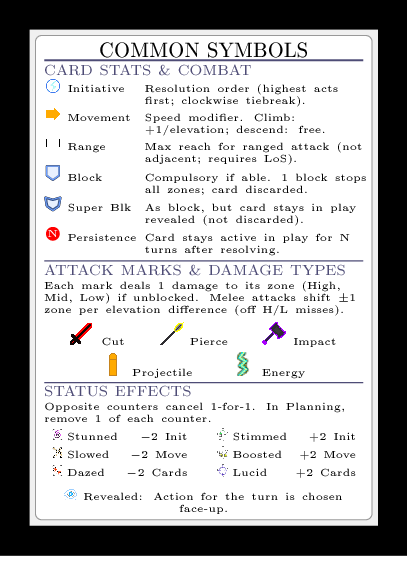
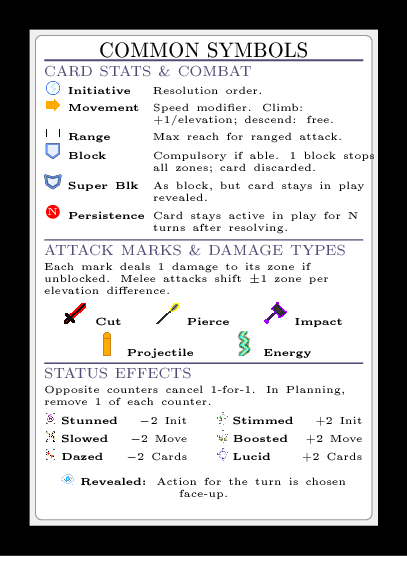
refactor: clean up helpcard formatting (bold keywords, remove parentheses, split attack/frame keywords)

diff --git a/helpcard.py b/helpcard.py
@@ -16,7 +16,8 @@ from pathlib import Path
 
 def build_symbols_card() -> str:
     """Generate LaTeX TikZ code for the Common Symbols reference card."""
-    return r"""\begin{tikzpicture}
+    return r"""\providecommand{\kw}[1]{{\normalfont\bfseries #1}}
+\begin{tikzpicture}
   \node (cardbleed) [rectangle, minimum width = 6.9cm, minimum height = 9.4cm, fill=black] at (3.45,4.7){};
   \useasboundingbox (0,0) rectangle (6.9, 9.4);
   \clip (0,0) rectangle (6.9, 9.4);
@@ -28,51 +29,51 @@ def build_symbols_card() -> str:
   % Content box
   \node[anchor=north, inner sep=0pt, text width=5.4cm] at (3.45, 8.68) {%
     {\centering\textbf{\cardtitlefont\normalsize COMMON SYMBOLS}\par\vspace{1pt}}
-    {\color{citysteel}\hrule height 0.8pt}\vspace{2pt}
+    {\color{citysteel}\hrule height 0.8pt}\vspace{2.5pt}
 
     % --- STATS ---
-    {\color{citysteel}\textbf{\cardtitlefont\scriptsize CARD STATS \& COMBAT}}\par\vspace{1pt}
+    {\color{citysteel}\textbf{\cardtitlefont\scriptsize CARD STATS \& COMBAT}}\par\vspace{1.5pt}
     {\fontsize{4.8pt}{5.8pt}\selectfont\cardtextfont
     \begin{tabular}{@{}c@{\hspace{3pt}}l@{\hspace{4pt}}p{3.85cm}@{}}
-      \includegraphics[height=0.22cm]{../icons/initImg.png} & \textbf{Initiative} & Resolution order (highest acts first; clockwise tiebreak). \\
-      \includegraphics[height=0.22cm]{../icons/mvimg_old.png} & \textbf{Movement} & Speed modifier. Climb: +1/elevation; descend: free. \\
-      \includegraphics[height=0.22cm]{../icons/rangeImg.png} & \textbf{Range} & Max reach for ranged attack (not adjacent; requires LoS). \\
-      \resizebox{0.24cm}{!}{\begin{tikzpicture}\blockshield{0}{0}{cityblue}\end{tikzpicture}} & \textbf{Block} & Compulsory if able. 1 block stops all zones; card discarded. \\
-      \resizebox{0.29cm}{!}{\begin{tikzpicture}\superblockshield{0}{0}{cityblue}\end{tikzpicture}} & \textbf{Super Blk} & As block, but card stays in play revealed (not discarded). \\
-      \tikz{\node[circle, fill=red, inner sep=0.2pt]{\tiny\textbf{\color{white}N}};\strut} & \textbf{Persistence} & Card stays active in play for N turns after resolving. \\
+      \includegraphics[height=0.22cm]{../icons/initImg.png} & \kw{Initiative} & Resolution order. \\
+      \includegraphics[height=0.22cm]{../icons/mvimg_old.png} & \kw{Movement} & Speed modifier. Climb: +1/elevation; descend: free. \\
+      \includegraphics[height=0.22cm]{../icons/rangeImg.png} & \kw{Range} & Max reach for ranged attack. \\
+      \resizebox{0.24cm}{!}{\begin{tikzpicture}\blockshield{0}{0}{cityblue}\end{tikzpicture}} & \kw{Block} & Compulsory if able. 1 block stops all zones; card discarded. \\
+      \resizebox{0.29cm}{!}{\begin{tikzpicture}\superblockshield{0}{0}{cityblue}\end{tikzpicture}} & \kw{Super Blk} & As block, but card stays in play revealed. \\
+      \tikz{\node[circle, fill=red, inner sep=0.2pt]{\tiny\textbf{\color{white}N}};\strut} & \kw{Persistence} & Card stays active in play for N turns after resolving. \\
     \end{tabular}\par
-    }\vspace{2pt}
-    {\color{citysteel}\hrule height 0.5pt}\vspace{1.5pt}
+    }\vspace{2.5pt}
+    {\color{citysteel}\hrule height 0.5pt}\vspace{2pt}
 
     % --- DAMAGE TYPES ---
-    {\color{citysteel}\textbf{\cardtitlefont\scriptsize ATTACK MARKS \& DAMAGE TYPES}}\par\vspace{1pt}
+    {\color{citysteel}\textbf{\cardtitlefont\scriptsize ATTACK MARKS \& DAMAGE TYPES}}\par\vspace{1.5pt}
     {\fontsize{4.8pt}{5.8pt}\selectfont\cardtextfont
-    Each mark deals 1 damage to its zone (High, Mid, Low) if unblocked.
-    Melee attacks shift $\pm$1 zone per elevation difference (off H/L misses).\par\vspace{2pt}
+    Each mark deals 1 damage to its zone if unblocked.
+    Melee attacks shift $\pm$1 zone per elevation difference.\par\vspace{2.5pt}
     {\centering
-      \smallcut\ \textbf{Cut} \hspace{10pt}
-      \smallpierce\ \textbf{Pierce} \hspace{10pt}
-      \smallimpact\ \textbf{Impact}\par\vspace{1.5pt}
-      \smallprojectile\ \textbf{Projectile} \hspace{12pt}
-      \smallenergy\ \textbf{Energy}\par
+      \smallcut\ \kw{Cut} \hspace{10pt}
+      \smallpierce\ \kw{Pierce} \hspace{10pt}
+      \smallimpact\ \kw{Impact}\par\vspace{1.5pt}
+      \smallprojectile\ \kw{Projectile} \hspace{12pt}
+      \smallenergy\ \kw{Energy}\par
     }
-    }\vspace{2pt}
-    {\color{citysteel}\hrule height 0.5pt}\vspace{1.5pt}
+    }\vspace{2.5pt}
+    {\color{citysteel}\hrule height 0.5pt}\vspace{2pt}
 
     % --- STATUS EFFECTS ---
-    {\color{citysteel}\textbf{\cardtitlefont\scriptsize STATUS EFFECTS}}\par\vspace{1pt}
+    {\color{citysteel}\textbf{\cardtitlefont\scriptsize STATUS EFFECTS}}\par\vspace{1.5pt}
     {\fontsize{4.8pt}{5.8pt}\selectfont\cardtextfont
-    Opposite counters cancel 1-for-1. In Planning, remove 1 of each counter.\par\vspace{2pt}
+    Opposite counters cancel 1-for-1. In Planning, remove 1 of each counter.\par\vspace{2.5pt}
     {\centering
     \begin{tabular}{@{}c@{\hspace{2pt}}l@{\hspace{4pt}}r@{\hspace{14pt}}c@{\hspace{2pt}}l@{\hspace{4pt}}r@{}}
-      \includegraphics[height=0.20cm]{../icons/stunned.png} & \textbf{Stunned} & $-$2 Init &
-      \includegraphics[height=0.20cm]{../icons/stimmed.png} & \textbf{Stimmed} & +2 Init \\[1.2pt]
-      \includegraphics[height=0.20cm]{../icons/slowed.png} & \textbf{Slowed} & $-$2 Move &
-      \includegraphics[height=0.20cm]{../icons/boosted.png} & \textbf{Boosted} & +2 Move \\[1.2pt]
-      \includegraphics[height=0.20cm]{../icons/dazed.png} & \textbf{Dazed} & $-$2 Cards &
-      \includegraphics[height=0.20cm]{../icons/lucid.png} & \textbf{Lucid} & +2 Cards \\[1.2pt]
-    \end{tabular}\par\vspace{2pt}
-    \includegraphics[height=0.20cm]{../icons/revealed.png}\ \textbf{Revealed:} Action for the turn is chosen face-up.\par
+      \includegraphics[height=0.20cm]{../icons/stunned.png} & \kw{Stunned} & $-$2 Init &
+      \includegraphics[height=0.20cm]{../icons/stimmed.png} & \kw{Stimmed} & +2 Init \\[1.2pt]
+      \includegraphics[height=0.20cm]{../icons/slowed.png} & \kw{Slowed} & $-$2 Move &
+      \includegraphics[height=0.20cm]{../icons/boosted.png} & \kw{Boosted} & +2 Move \\[1.2pt]
+      \includegraphics[height=0.20cm]{../icons/dazed.png} & \kw{Dazed} & $-$2 Cards &
+      \includegraphics[height=0.20cm]{../icons/lucid.png} & \kw{Lucid} & +2 Cards \\[1.2pt]
+    \end{tabular}\par\vspace{2.5pt}
+    \includegraphics[height=0.20cm]{../icons/revealed.png}\ \kw{Revealed:} Action for the turn is chosen face-up.\par
     }
     }
   };
@@ -84,7 +85,8 @@ def build_symbols_card() -> str:
 
 def build_keywords_card() -> str:
     """Generate LaTeX TikZ code for the Keywords Glossary reference card."""
-    return r"""\begin{tikzpicture}
+    return r"""\providecommand{\kw}[1]{{\normalfont\bfseries #1}}
+\begin{tikzpicture}
   \node (cardbleed) [rectangle, minimum width = 6.9cm, minimum height = 9.4cm, fill=black] at (3.45,4.7){};
   \useasboundingbox (0,0) rectangle (6.9, 9.4);
   \clip (0,0) rectangle (6.9, 9.4);
@@ -94,23 +96,31 @@ def build_keywords_card() -> str:
   \node (innerplate) [rectangle, rounded corners=3pt, minimum width=5.7cm, minimum height=8.2cm, fill=white, draw=black!40] at (3.45,4.7) {};
 
   % Content box
-  \node[anchor=north, inner sep=0pt, text width=5.4cm] at (3.45, 8.65) {%
+  \node[anchor=north, inner sep=0pt, text width=5.4cm] at (3.45, 8.68) {%
     {\centering\textbf{\cardtitlefont\normalsize KEYWORDS GLOSSARY}\par\vspace{1pt}}
-    {\color{citysteel}\hrule height 0.8pt}\vspace{2.5pt}
+    {\color{citysteel}\hrule height 0.8pt}\vspace{2pt}
 
-    {\fontsize{5.2pt}{6.4pt}\selectfont\cardtextfont
-    \textbf{On Hit:}\ The text after the colon applies only if the attack hits (is not blocked).\par\vspace{1.8pt}
-    \textbf{On Block:}\ The text after the colon applies only if this card is used to block an attack.\par\vspace{1.8pt}
-    \textbf{Guard Break:}\ This attack consumes one block per zone attacked. Unblocked zones still deal damage.\par\vspace{1.8pt}
-    \textbf{Committed:}\ This attack is discarded after it resolves (cannot stay out to block later attacks).\par\vspace{1.8pt}
-    \textbf{Feint:}\ If this attack is not blocked it deals no damage. (Opponents must still block if able).\par\vspace{1.8pt}
-    \textbf{Close Quarters:}\ This attack cannot be blocked by attacks that have already resolved.\par\vspace{1.8pt}
-    \textbf{Knockback (X):}\ Move target frame X steps directly away from the source (cannot move up elevation).\par\vspace{1.8pt}
-    \textbf{Reload:}\ Persists until this weapon next attacks; that attack deals no damage and has no effect, then both discard.\par\vspace{1.8pt}
-    \textbf{Shield (X):}\ Put X shield counters on the frame. One counter absorbs an entire attack (all zones), then is removed.\par\vspace{1.8pt}
-    \textbf{Flying:}\ Spends no extra movement to cross obstacles or change elevation; obstacles do not block line of sight.\par\vspace{1.8pt}
-    \textbf{Deathstrike:}\ Continues fighting until end of the turn when destroyed; survives if healed before turn cleanup.\par\vspace{1.8pt}
-    \textbf{Drone:}\ An independent token unit that acts each turn with this card's attack, using printed movement and health.\par
+    % --- ATTACK KEYWORDS ---
+    {\color{citysteel}\textbf{\cardtitlefont\scriptsize ATTACK KEYWORDS}}\par\vspace{1pt}
+    {\fontsize{4.8pt}{5.8pt}\selectfont\cardtextfont
+    \kw{On Hit:}\ The text after the colon applies only if the attack hits (is not blocked).\par\vspace{1.2pt}
+    \kw{On Block:}\ The text after the colon applies only if this card is used to block an attack.\par\vspace{1.2pt}
+    \kw{Guard Break:}\ This attack consumes one block per zone attacked. Unblocked zones still deal damage.\par\vspace{1.2pt}
+    \kw{Committed:}\ This attack is discarded after it resolves (cannot stay out to block later attacks).\par\vspace{1.2pt}
+    \kw{Feint:}\ If this attack is not blocked it deals no damage. (Opponents must still block if able).\par\vspace{1.2pt}
+    \kw{Close Quarters:}\ This attack cannot be blocked by attacks that have already resolved.\par\vspace{1.2pt}
+    \kw{Knockback (X):}\ Move target frame X steps directly away from the source (cannot move up elevation).\par\vspace{1.2pt}
+    \kw{Reload:}\ Persists until this weapon next attacks; that attack deals no damage and has no effect, then both discard.\par\vspace{1.2pt}
+    \kw{Drone:}\ An independent token unit that acts each turn with this card's attack, using printed movement and health.\par
+    }\vspace{2pt}
+    {\color{citysteel}\hrule height 0.5pt}\vspace{1.5pt}
+
+    % --- FRAME KEYWORDS ---
+    {\color{citysteel}\textbf{\cardtitlefont\scriptsize FRAME KEYWORDS}}\par\vspace{1pt}
+    {\fontsize{4.8pt}{5.8pt}\selectfont\cardtextfont
+    \kw{Flying:}\ Spends no extra movement to cross obstacles or change elevation; obstacles do not block line of sight.\par\vspace{1.2pt}
+    \kw{Shield (X):}\ Put X shield counters on the frame. One counter absorbs an entire attack (all zones), then is removed.\par\vspace{1.2pt}
+    \kw{Deathstrike:}\ Continues fighting until end of the turn when destroyed; survives if healed before turn cleanup.\par
     }
   };
 
